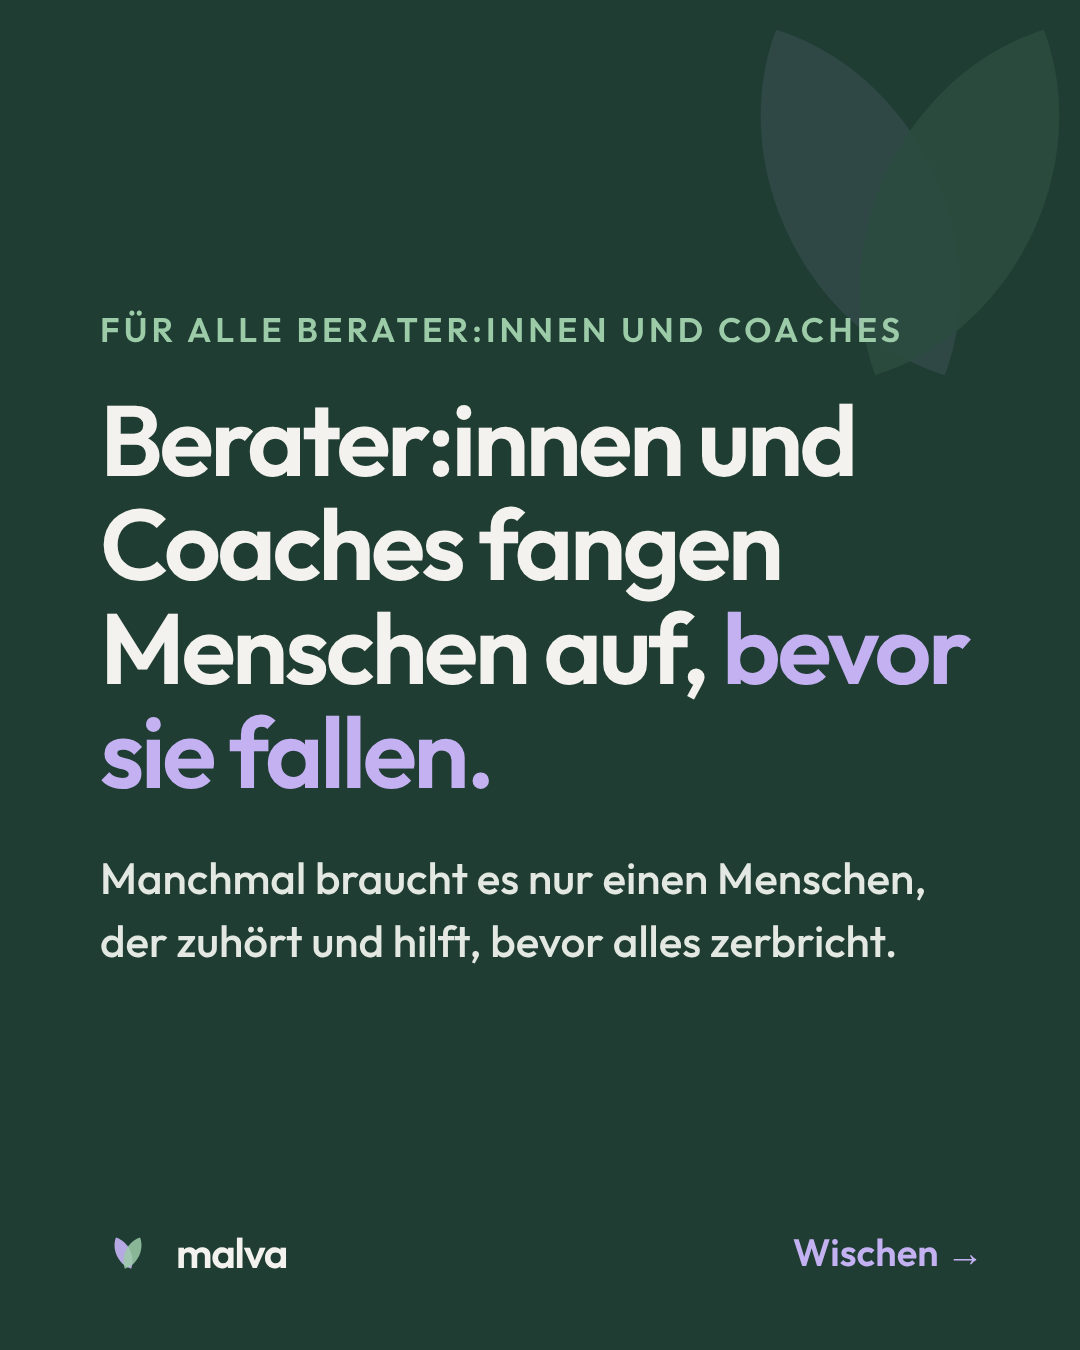
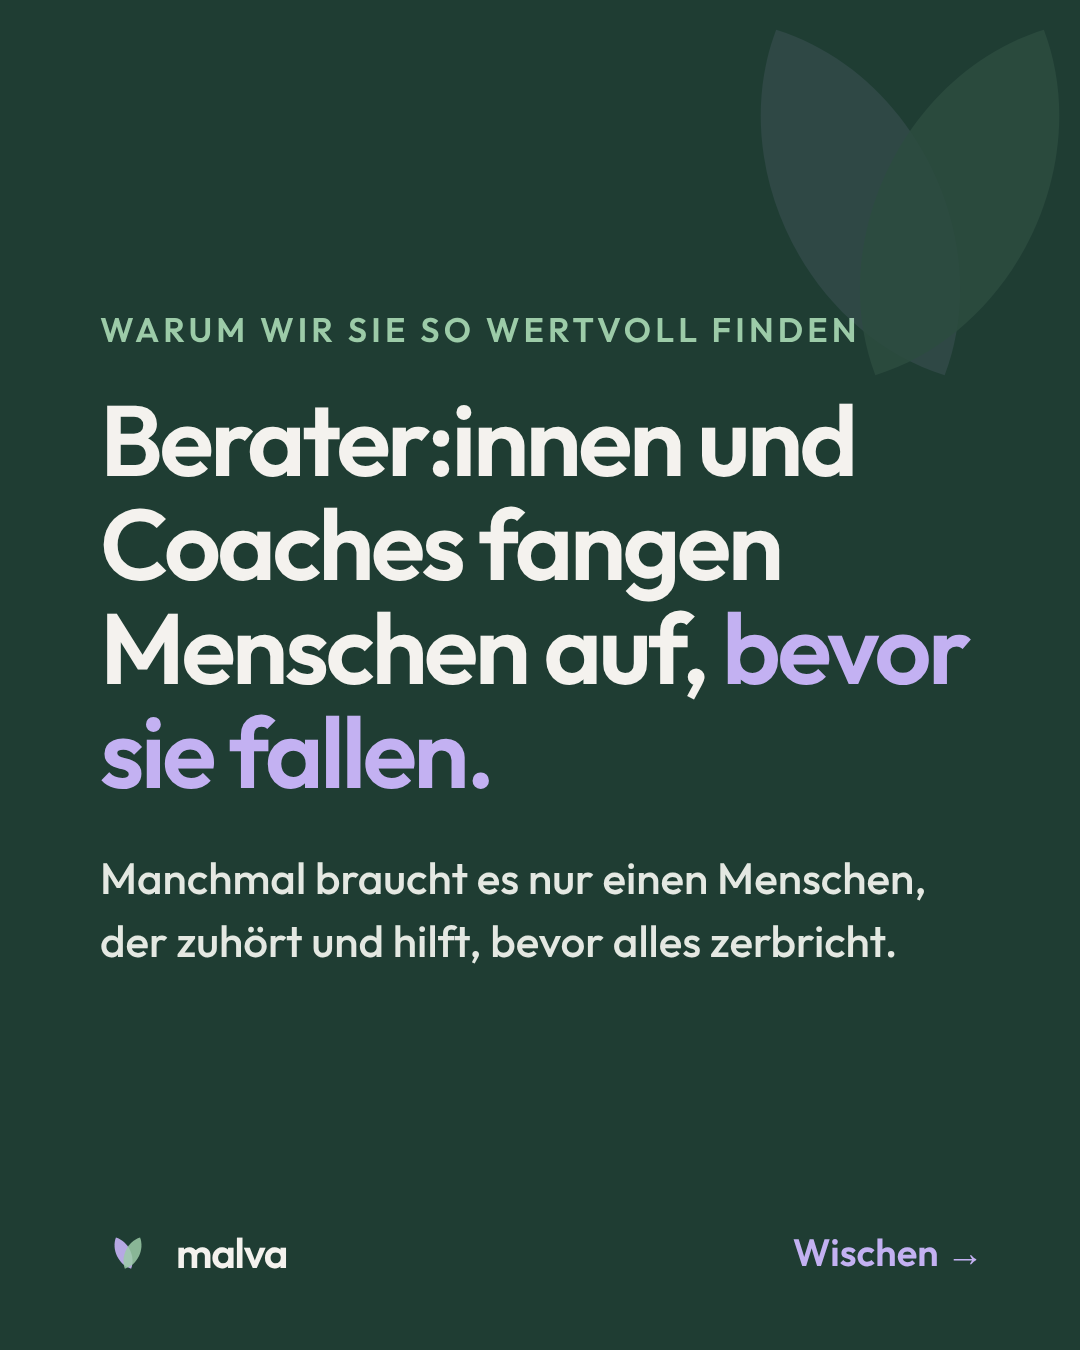
Karussell Berater: Folie 1 Überzeile
Claude-Session: https://claude.ai/code/session_015uEer6M6e5oi78ZvJtGjnt

Changed region(s): [[0.0917, 0.2178, 0.825, 0.28]]

diff --git a/malva-website/instagram/berater-coaches/slides.html b/malva-website/instagram/berater-coaches/slides.html
@@ -73,7 +73,7 @@ h2{font-weight:600;font-size:84px;line-height:1.06;letter-spacing:-.03em}
 
 <section class="slide dark" id="s1">
   <span class="deco" data-mark="d"></span>
-  <p class="kicker">Für alle Berater:innen und Coaches</p>
+  <p class="kicker">Warum wir sie so wertvoll finden</p>
   <h2 class="big">Berater:innen und Coaches fangen Menschen auf, <span class="hl">bevor sie fallen.</span></h2>
   <p class="lead2">Manchmal braucht es nur einen Menschen, der zuhört und hilft, bevor alles zerbricht.</p>
   <div class="foot"><div class="brand" data-mark="d"><span>malva</span></div><span class="swipe">Wischen →</span></div>
